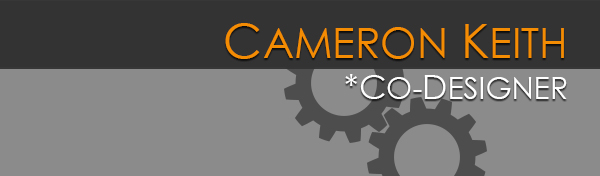
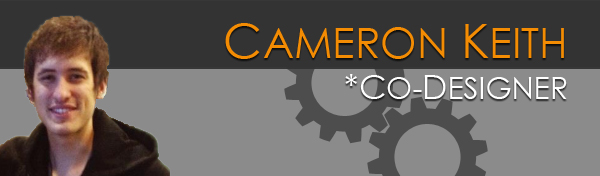
About.html updated
Added my photo and description of me to the about page.

Changed region(s): [[0.0, 0.0852, 0.3, 1.0]]

diff --git a/about.html b/about.html
@@ -15,7 +15,7 @@
                 <img src="/images/cameron_profile.jpg" alt="profile" style="width: 410px; height: 120px; margin: 0 auto;" />
             </div>
             <div style="width: 430px; float: left; margin: 0 0 20px 0;">
-                <p class="white-text">[Short Biography]</p>
+                <p class="white-text">Cameron Keith is a Computer Systems Engineering student currently attending Arizona State University. He has a knowledge of a variety of different programming languages, but his favorite is C/C++. He will be interning in the Summer of 2014 at Garmin where he will be able to combine his love of programming and aviation while helping develop the company's next generation of glass cockpits.</p>
             </div>
         </div>
         <div class="clear">
